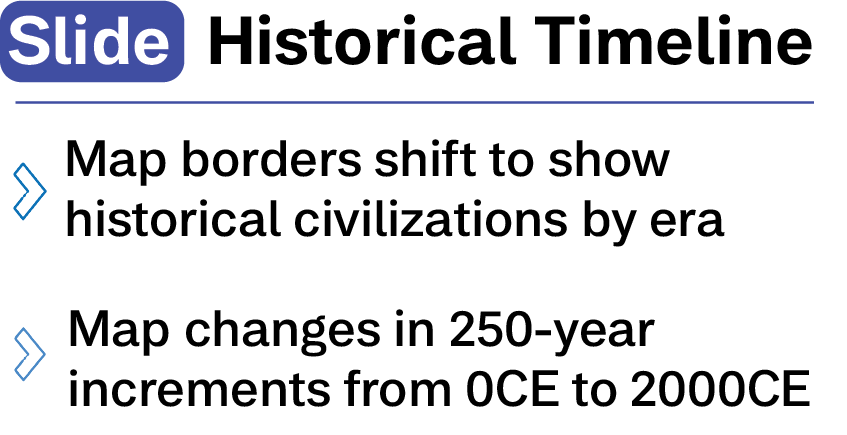
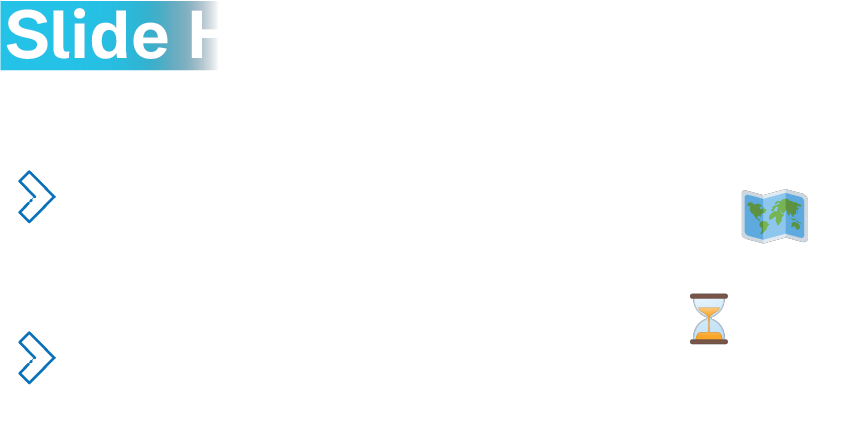
Tutorial changes

diff --git a/src/tutorial.css b/src/tutorial.css
@@ -18,7 +18,7 @@
   color: rgba(220, 220, 220, 0.95);
   border: 1px solid rgba(240, 240, 240, 0.95);
   border-radius: 5px;
-  background-color: rgba(10, 10, 10, 0.9);
+  background-color: rgba(3, 45, 73, 0.9);
   cursor: pointer;
 }
 
@@ -35,14 +35,14 @@
   position: fixed;
   font: 14px 'Arial Unicode MS Bold', Arial, Helvetica, sans-serif;
   color: rgba(230, 230, 230, .95);
-  border: rgba(0, 122, 122, 0.2) 3px solid;
+  border: rgba(255,255,255, 0.9) 3px solid;
   border-radius: 10px;
-  background-color: rgba(99, 102, 106, 0.1);
+  background-color: rgba(99,102,106, 0.3);
   width: 95%;
   height: auto;
   top: 7%;
   left: 2.5%;
-  backdrop-filter: blur(1.5px);
+  backdrop-filter: blur(3.5px);
   -webkit-backdrop-filter: blur(1.5px);
 }
 .button-close {
@@ -54,7 +54,7 @@
   margin-top: 5px;
   border: 1px solid rgba(240, 240, 240, 0.95);
   border-radius: 5px;
-  background-color: rgba(10, 10, 10, 0.9);
+  background-color: rgba(3, 45, 73, 0.9);
   cursor: pointer;
 }
 
@@ -80,11 +80,12 @@
   min-width: 300px;
 }
 .instruction-box {
-  display: inline-block;
+  display: flex;
+  justify-content: center;
   border-radius: 10px;
   box-sizing: border-box;
   border: 2px solid black;
-  background-color: rgba(125, 155, 193, 0.8);
+  background-color: rgba(3,43,73, 0.6);
   padding: 20px;
   padding-top: 30px;
   height: 300px;
